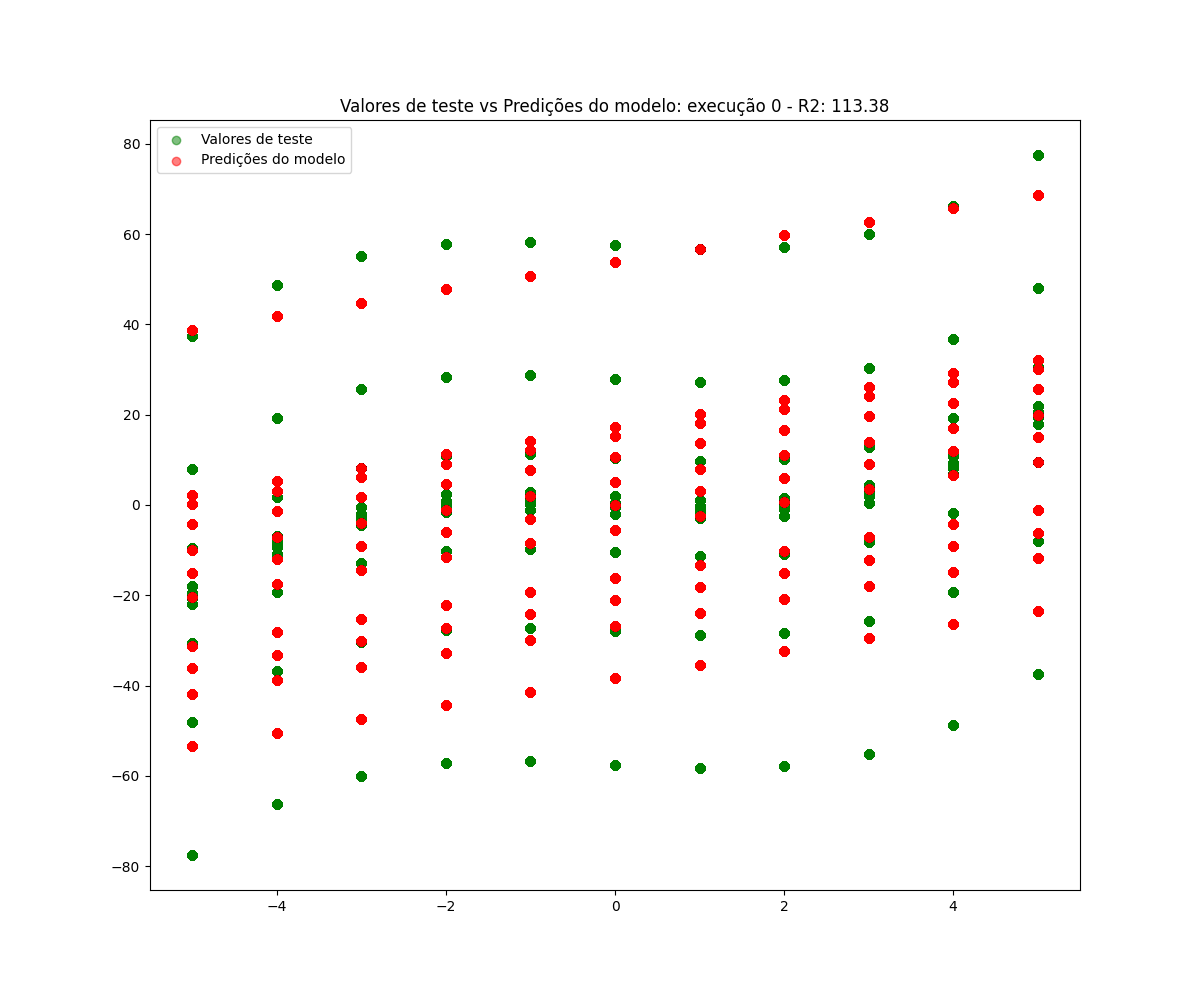
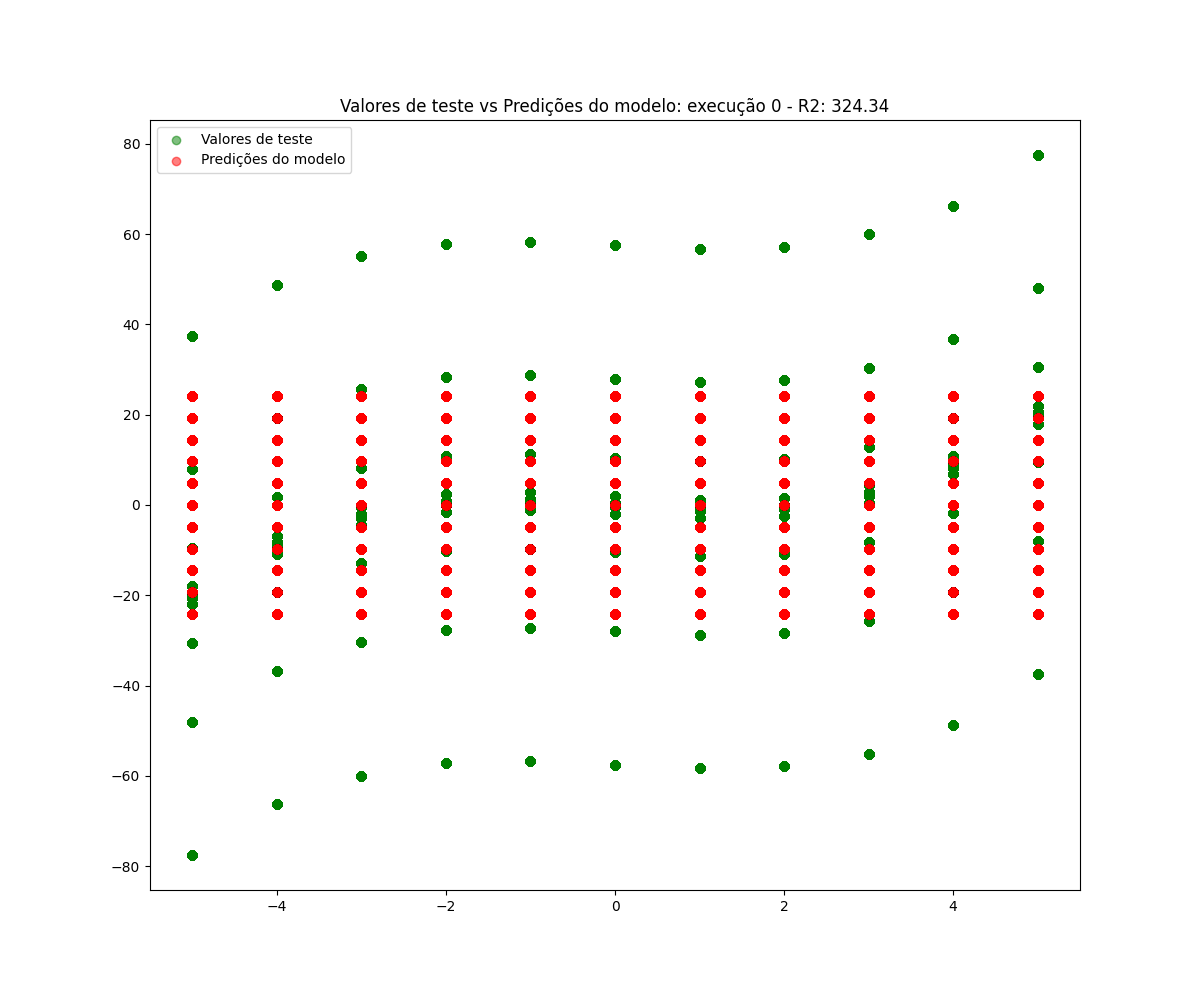
alterando método de simplificação

diff --git a/model/symb_reg.py b/model/symb_reg.py
@@ -2,6 +2,9 @@ import pandas as pd
 import numpy as np
 from sklearn.metrics import mean_squared_error
 
+
+
+
 data = pd.read_csv(f'dataset/funcao{funcao_train}/funcao{funcao_train}_{qtd_train}.csv')
 data_test = pd.read_csv(f'dataset/funcao{funcao_train}/funcao{funcao_train}_teste50k.csv')
 
@@ -49,7 +52,7 @@ protected_log = make_function(function=_protected_log, name='protected_log', ari
 function_set = ['add', 'sub', 'mul', 'cos', 'sin', 'tan', protected_div, protected_sqrt, protected_log]
 
 #cria o modelo: alterar parâmetros de mutação
-est_gp = SymbolicRegressor(population_size=500, function_set=function_set, generations=50, tournament_size=4, metric='mse', p_crossover=0.9, init_depth=(5, 10), verbose=1, p_point_mutation=0.01, p_subtree_mutation=0.01, p_hoist_mutation=0.01, parsimony_coefficient= 'auto', random_state=seed)
+est_gp = SymbolicRegressor(population_size=500, function_set=function_set, generations=50, tournament_size=4, metric='mse', p_crossover=0.9, init_depth=(5, 10), verbose=1, p_point_mutation=0.01, p_subtree_mutation=0.01, p_hoist_mutation=0.01, random_state=seed)
 
 #treina o modelo
 est_gp.fit(X_train, y_train)
@@ -58,15 +61,12 @@ y_pred = est_gp.predict(X_test)
 #resultados em avaliação de modelo
 apt = mean_squared_error(y_test, y_pred)
 
-score_gp = est_gp.score(X_test, y_test)
-
 
 """
 df = pd.read_csv('test.csv')
 df.loc[len(df.index)] = (seed,apt)
 df.to_csv('test.csv', index=False)
 """
-
 
 #imprime a função gerada e simplifica equação
 import sympy as sp
@@ -84,20 +84,33 @@ converter = {
     'protected_log': lambda x: sp.log(x),
 }
 
-#print('R2:', est_gp.score(X_test, y_test))
+print("\nArvore de expressão:", est_gp._program)
+
+exp_simp = sp.parse_expr(str(est_gp._program), converter)
+
+"""
 next_e = sp.sympify(str(est_gp._program), locals=converter)
-  
+print('\nEquação:', next_e)
+
 exp_trig_simp = sp.trigsimp(next_e)
-exp_simp = sp.simplify(exp_trig_simp)
+print('\nEquação simplificada:', exp_trig_simp)
+
+exp_simp = sp.simplify(exp_trig_simp) 
+print('\nEquação simplificada 2:', exp_simp)
+"""
+
+print('\nEquação:', exp_simp)
+
+simplified = sp.simplify(exp_simp)
+print('\nEquação simplificada 2:', simplified)
+
 
 df = pd.read_csv(f'results/funcao{funcao_train}_{qtd_train}.csv')
-df.loc[len(df.index)] = (seed, apt, exp_simp)
+df.loc[len(df.index)] = (seed, apt, simplified)
 df.to_csv(f'results/funcao{funcao_train}_{qtd_train}.csv', index=False)
-"""
-"""
 
+"""
 #plota a função
-
 import matplotlib.pyplot as plt
 plt.ion()
 
@@ -109,5 +122,4 @@ axs[1].set_title(f'Valores de teste vs Predições do modelo: execução {iterat
 axs[1].legend()
 # Mostra os gráficos
 plt.savefig(f'graficos/funcao{funcao_train}/data_{qtd_train}/valores_teste_vs_predicoes_execucao_{iteration}.png')
-"""
 """

diff --git a/model/eval_error.py b/model/eval_error.py
@@ -1,0 +1,27 @@
+import pandas as pd
+import numpy as np
+from sklearn.metrics import mean_squared_error
+
+data_teste = pd.read_csv('dataset/funcao5/funcao5_teste50k.csv')
+val_esp = data_teste['val-esp'].values
+data = pd.read_csv('results/funcao5_50.csv')
+equacoes = data['equacao'].values
+
+df = pd.DataFrame(columns=['equacao','mse'])
+
+X0 = data_teste['X1'].values
+X1 = data_teste['X2'].values
+
+for i in range(len(equacoes)):
+    equacoes[i]=str(equacoes[i])
+    if equacoes[i] == 'nan':
+        result = 0
+    else:
+        result = eval(equacoes[i])
+    if np.isscalar(result):
+        result = np.full(50000,result)
+    apt = mean_squared_error(val_esp, result)
+    df.loc[len(df.index)] = (equacoes[i],apt)
+
+
+df.to_csv('results/resultados_equacoes_funcao5_50.csv', index=False)

diff --git a/model/script.py b/model/script.py
@@ -14,8 +14,8 @@ df = pd.DataFrame(columns=['seed', 'mse', 'equacao'])
 df.to_csv(f'results/funcao{funcao_train_valuen}_{qtd_train_value}.csv', index=False)
 
 
-for i in range(50):
-    # Variáveis para passar para o módulo
+for i in range(10):
+    # variáveis para passar para o módulo
     vars_to_pass = {'funcao_train': funcao_train_valuen, 'qtd_train': qtd_train_value, 'iteration': i, 'seed' : random.randint(0, 1000)}
     namespace = runpy.run_path('model/symb_reg.py', init_globals=vars_to_pass)
         
